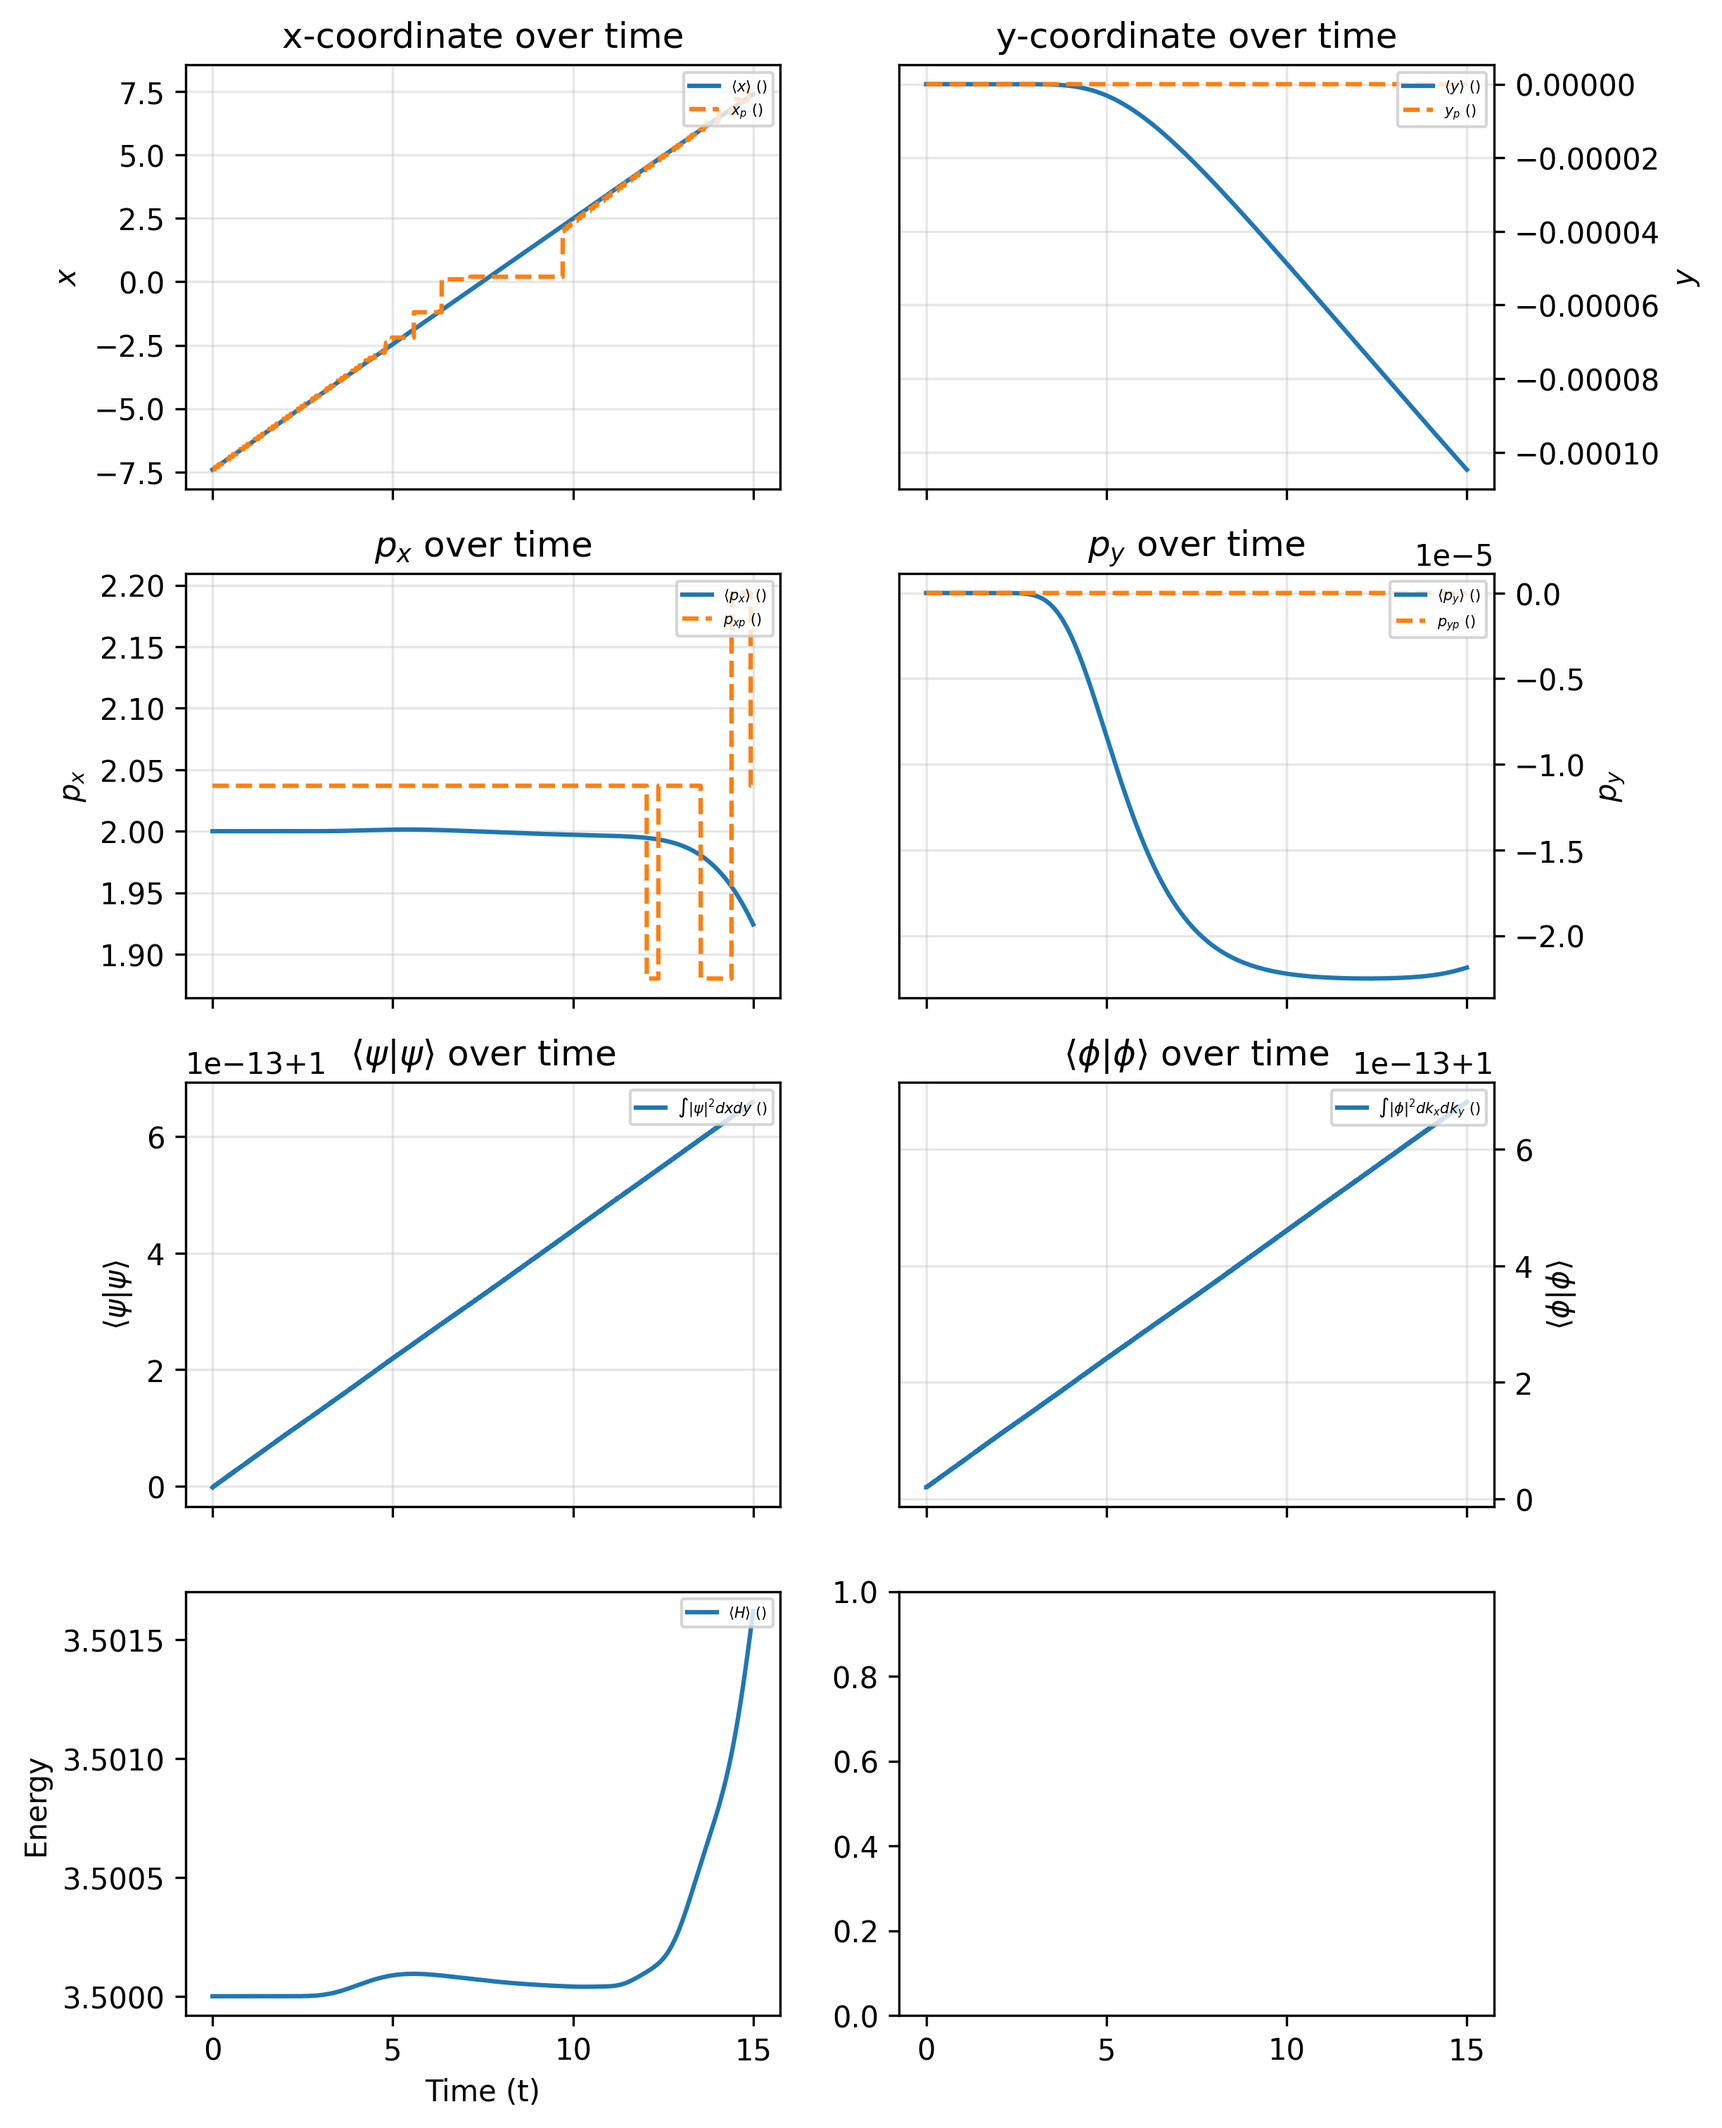
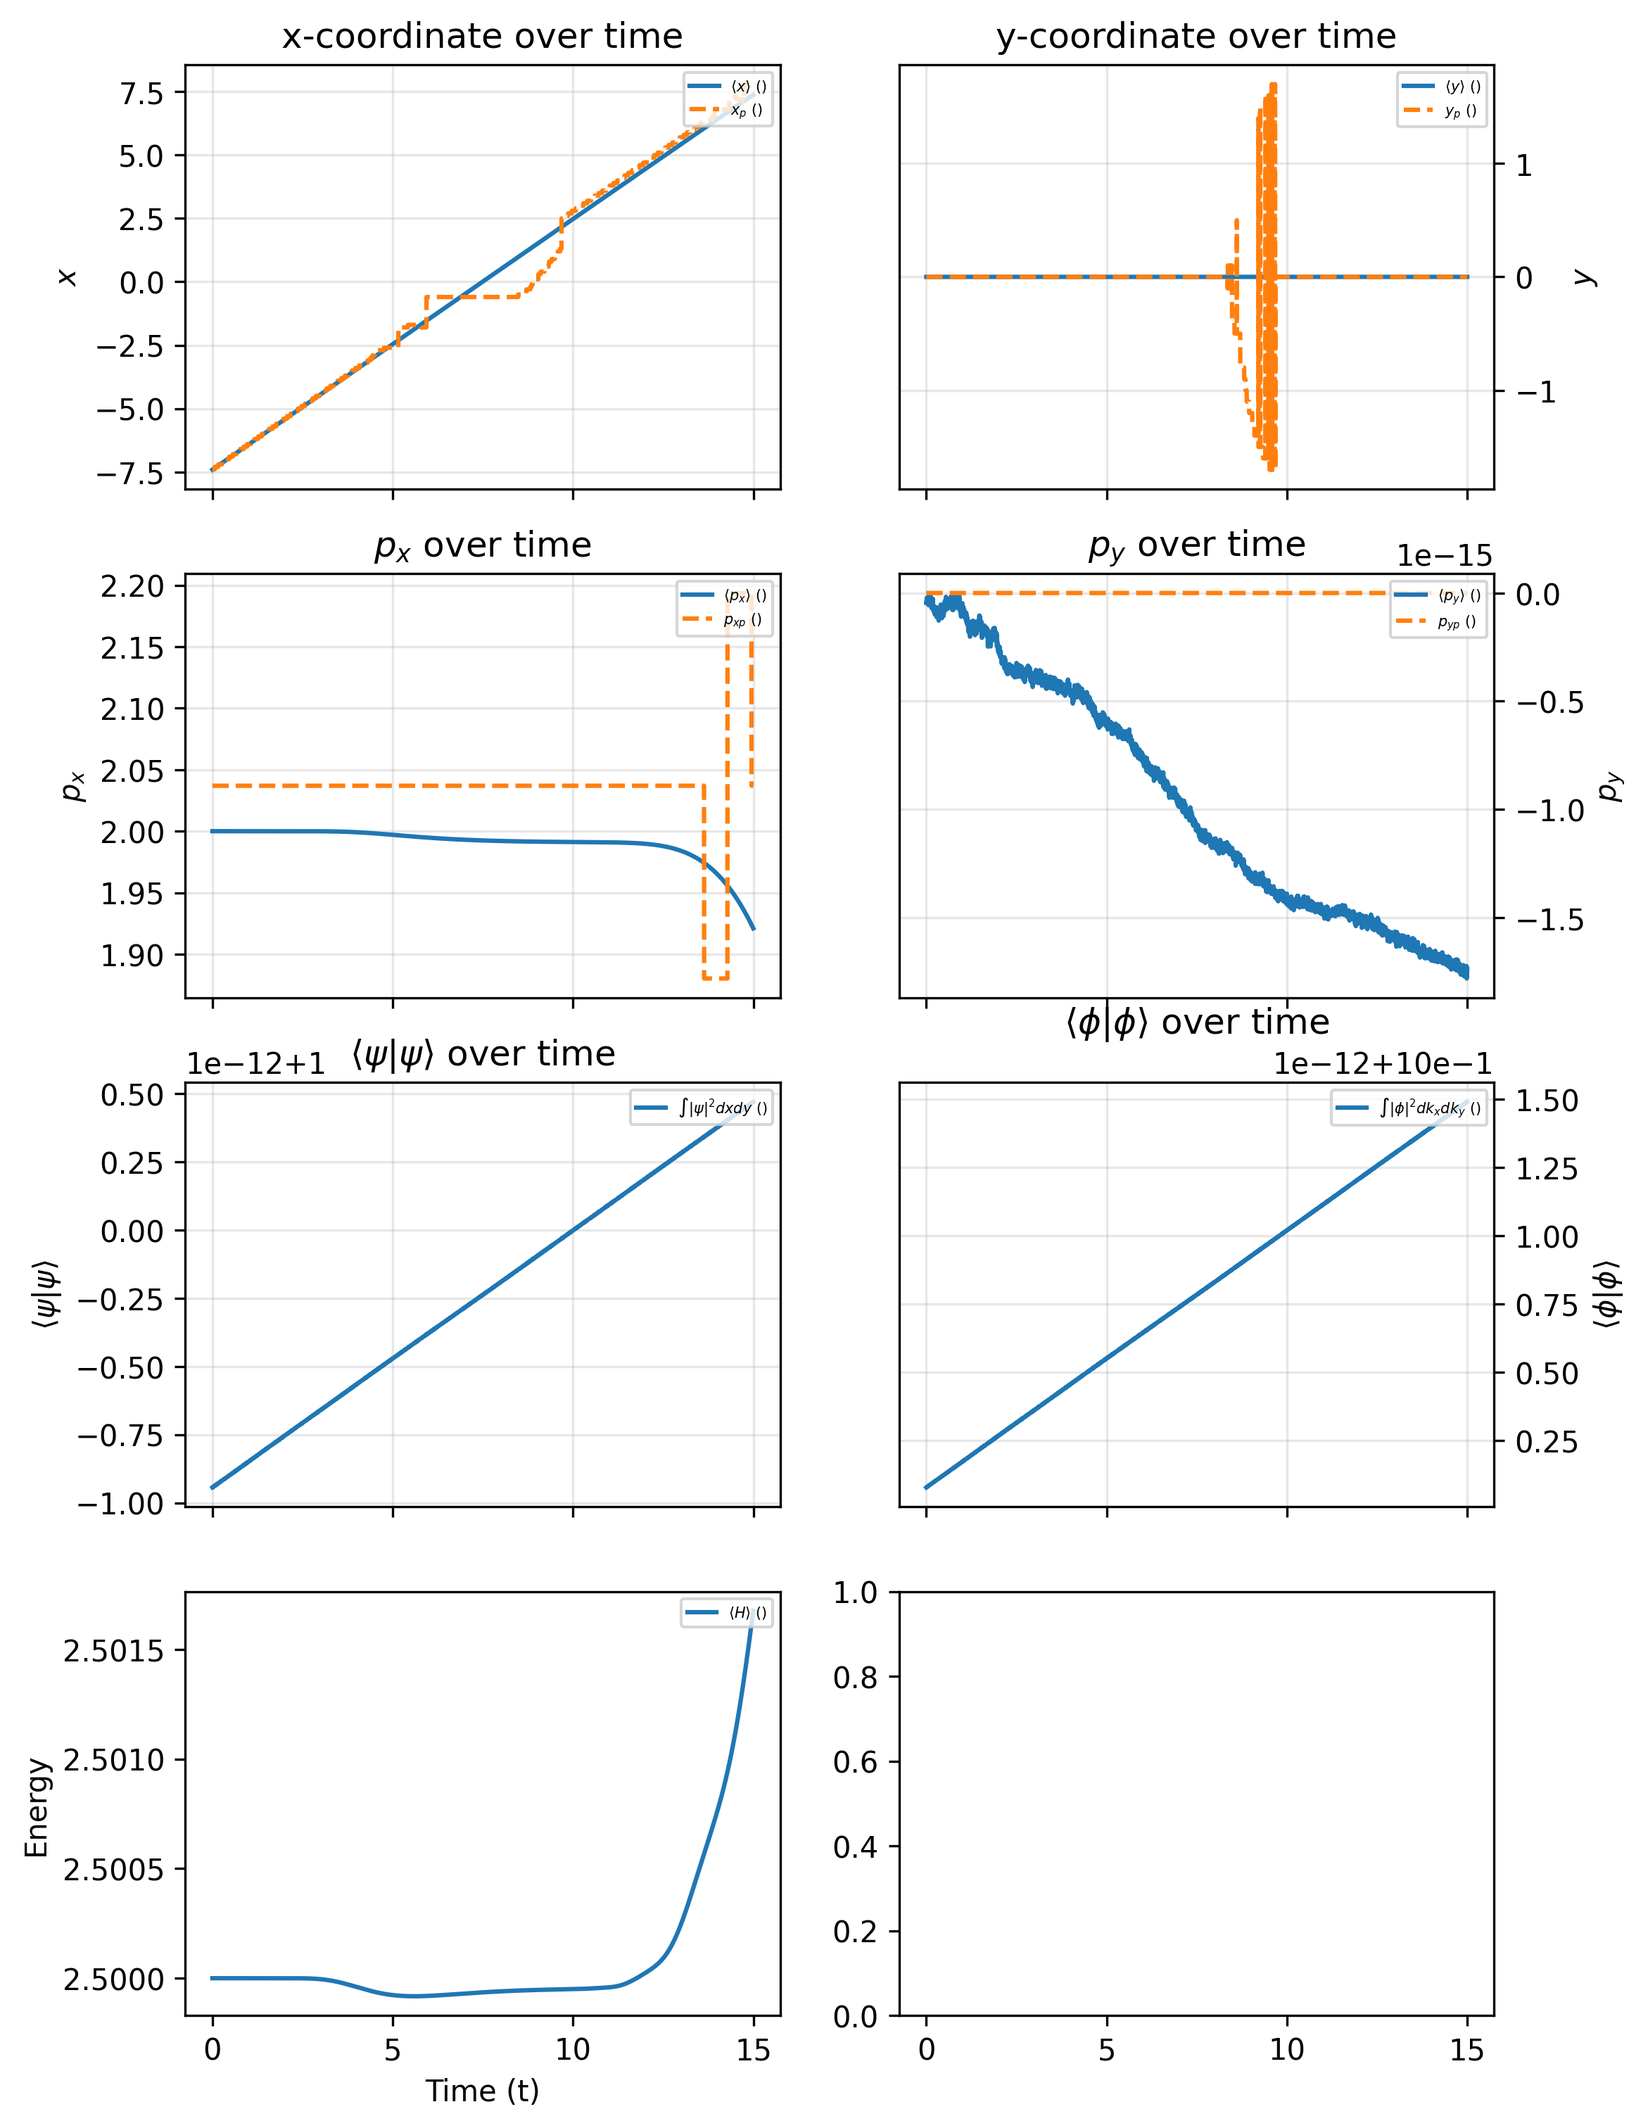
almost done

diff --git a/Assignment4/CQM.py b/Assignment4/CQM.py
@@ -661,7 +661,8 @@ def step_potential_2d(X, Y, step_pos_x=0.0, v_left=0.0, v_right=1.0):
 
 def disk_potential_2d(X, Y, R=1.5, center_x=0.0, center_y=0.0, v_out=0.0, v_in=1.0):
     """Returns a 2D disk potential with radius R """
-    return np.where(((X-center_x)**2 + (Y-center_y)**2) < R**2 + epsilon, v_out, v_in)
+    epsilon = 1e-10
+    return np.where(((X-center_x)**2 + (Y-center_y)**2) < R**2 + epsilon, v_in, v_out)
 
 def harmonic_potential_2d(X, Y, omega_x=1.0, omega_y=1.0):
     """Returns a 2D harmonic oscillator potential."""
@@ -1240,5 +1241,5 @@ def MiniProject3():
 
 if __name__ == "__main__": 
     print("-"*15 + "   starting simulations   " + "-"*15)
-    MiniProject1()
+    MiniProject3()
     print("-"*15 + " all simulations finished " + "-"*15)

diff --git a/Assignment4/Report.md b/Assignment4/Report.md
@@ -549,11 +549,178 @@ Using these formulae, the same table would be populated as :
 
 # Problem 3: 2D Quantum Scattering
 
+## Part (a) : Numerical method
+
+We can extend the split operator method to 2D by assuming $\Delta y = \Delta x$ and defining 
+
+$$
+a(x,y) = \frac{4m\Delta  x^2}{t\hbar}i - \frac{2m\Delta  x^2}{\hbar^2}V(x,y) -4 \\
+b(x,y) = \frac{4m\Delta x^2}{t\hbar}i + \frac{2m\Delta x^2}{\hbar^2}V(x,y) + 4
+$$
+
+and writing
+
+$$
+\begin{bmatrix}
+0 & 1 & 0 \\
+1 & a(x) & 1 \\
+0 & 1 & 0
+\end{bmatrix} 
+\circ
+\begin{bmatrix}
+\psi_t(x+\Delta x,y+\Delta y) & \psi_t(x,y+\Delta y) & \psi_t(x-\Delta x,y+\Delta y) \\
+\psi_t(x+\Delta x,y) & \psi_t(x,y) & \psi_t(x-\Delta x,y) \\
+\psi_t(x+\Delta x,y-\Delta y) & \psi_t(x,y-\Delta y) & \psi_t(x-\Delta x,y-\Delta y) \\
+\end{bmatrix} \\
+= \\
+\begin{bmatrix}
+0 & -1 & 0 \\
+-1 & b(x) & -1 \\
+0 & -1 & 0
+\end{bmatrix} 
+\circ
+\begin{bmatrix}
+\psi_0(x+\Delta x,y+\Delta y) & \psi_0(x,y+\Delta y) & \psi_0(x-\Delta x,y+\Delta y) \\
+\psi_0(x+\Delta x,y) & \psi_0(x,y) & \psi_0(x-\Delta x,y) \\
+\psi_0(x+\Delta x,y-\Delta y) & \psi_0(x,y-\Delta y) & \psi_0(x-\Delta x,y-\Delta y) \\
+\end{bmatrix} 
+$$
+
+Solving this is going to be a nightmare.
+
+So instead, we approximate even more, giving us what is known as the _Alternat Direction Implicit_ method. 
+
+Here, we split the hamiltonian operator as $\hat H = \hat H_x + \hat H_y$ where 
+
+$$
+\hat H_x = -\frac{\hbar^2 \hat p_x^2}{2m} + V_x(x,y) \\
+\hat H_y = -\frac{\hbar^2 \hat p_y^2}{2m} + V_y(x,y)
+$$
+
+It it's possible to separate the potential as $V(x,y) = V_x(x) + V_y(y)$, we can simply split it. Otherwise, we can do $V_x = V_y = V/2$
+
+Now, for the method, we discretise the wave-function over a grid, giving us the matrix $\Psi[y,x]$. Just like before, we create the tri-diagonal matrices (using $t/2$ rather than $t$), but now for each dimension separately. Then we solve :
+
+$$
+A_{x}(y)\Psi_{t/2}[y] = B_x(y)\Psi_0[y]
+$$
+
+for all $y$ and then
+
+$$
+A_y(x)\Psi_{t}^T[x] = B_y(x)\Psi_{t/2}^T[x]
+$$
+
+for all $x$.
+
+This effectively takes $O(MN)$ operations each iteration, assuming the grid is $M\times N$ points big.
+
+Note that this analysis was done for the physical 2D TDSE, which is :
+
+$$
+-\frac{\hbar^2}{2m}\nabla^2 \psi + V \psi = i\hbar \frac{\partial}{\partial t}\psi 
+$$
+
+The $A_x(y)$ and $B_y(x)$ need to be translated to the adimensional versions (as done in `CQM.py`) for implementation. 
+
+As suggested in the assignment, the grid will have $x,y \in [-20,20]$ and $\Delta y = \Delta x = 0.1$. We will have $\Delta t = 0.003$ for all the animations created (and the respective plots).
+
 ## Part (a): Boundary Conditions and Normalization
+
+Similar to the 1D case, we use perfectly reflecting boundaries that have $\psi=0$ at all times. 
+For normalisation, we will ensure that
+
+$$
+N_{\vec x}(t) = \braket{\psi_t | \psi_t} \approx \Delta x^2\sum_x\sum_y \psi_t[x,y] = 1 + \epsilon_t
+$$
+
+where $\epsilon_t$, the error, is a small quantity, arising from rounding and discretization errors. 
+Just like before, we will plot $N_{\vec x}(t)$ as a function of time/step. 
+We will also compute the 2D FFT of $\psi_t$, giving the momentum wave-function $\phi_t$ and its norm $N_{\vec p}(t) = \braket{\phi_t| \phi_t}$.
+
+As suggested in the assignment, the wave-packet will be centered at $(-8,0)$ and have an initial momentum $k_x$ to the right (with $k_y=0$). The wave-packet will be gaussian and have the spread of $\sigma=1$ in either direction, which is much smaller than the grid's dimensions and will prevent the boundary affecting the simulation.  
+
 ## Part (b): Free Propagation
-## Part (c): Repulsive Barrier
-## Part (d): Parameter Variations
+
+![Free Particle](media/P3/scatterer_2d__R_3__k_x_2__sigma_1__V_0_0.gif)
+
+![Checking normalisation preservation](media/P3/scatterer_2d_summary__R_3__k_x_2__sigma_1__V_0_0.png)
+
+Once again, as you can see, towards the end of the simulation, the momentum in $x$ directon starts to change (invert, more specifically). This is due to the reflection of the wave-packet by the right boundary of the grid.
+
+Also notice how the norm $\braket{\psi|\psi}$ stays close to 1, with variation being on the order of $10^{-12}$
+
+## Part (c) and (f): Repulsive Barrier and classical shadow region
+
+![Repulsive Barrier](media/P3/scatterer_2d__R_3__k_x_2__sigma_1__V_0_1.gif)
+
+![Changes in momentum and position](media/P3/scatterer_2d_summary__R_3__k_x_2__sigma_1__V_0_1.png)
+
+You can see in the animation that after the wave-packet encounters the repulsive disk potential, there is a wavefront (a little after the first thin reflection) travelling to the left. This is the reflected wave. 
+Notice that there is some of the incident probability mass that actually goes inside and beyond the disk, i.e. in the region where $x>R=3$ and $y\in [-R/2,R/2] = [-1.5, 1.5]$. This is the classical "shadow region". No classical particle with momentum purely along x-axis would ever be able to reach the shadow region. And of course, classically, no particle will be able to enter the disk. But here we see that a _quantum_ particle/wave (or something close to a particle) is able to enter the disk and go beyond it into the shadow region. In wave-mechanics terms, this is the transmitted wave, and is a very standard phenomenon to see. 
+
+You can also see (in the animation) the most probable and mean positions overlayed on the heat-map for $|\psi|^2$ as well as the most probable and mean momentums overlayed on the heat-map for the squared magnitude of the momentum wavefunction, i.e. $|\phi|^2(\vec k)$. 
+
+Notice how the mean momentum barely shifts and how the momentum wavefunction, at one point, has a hole in the place where the mean momentum is, indicating scattering of the particle into many different directions. 
+
 ## Part (e): Angular Distribution
+
+The assignment asks to compute $P(\theta) = \int |\psi(r,\theta)|^2 r dr$ "far from the scatterer" and to "interpret it as a numerical cross section". This part was confusing for these reasons :
+
+1. The integral isn't an area integral, but rather a line integral.
+2. If the interval over which we are integrating is too small, we will get significant values only when the particle is passing through the region, which will not be sufficient to understand the physics of scattering. 
+
+So, I have made a few modifications :
+
+1. I consider wide sectors (centered at given $\theta_m$) with angular width of $\Delta \theta = 10^o = \frac{\pi}{18}$ which are then further cropped so that $r\in [r_m-\Delta r, r_m + \Delta r]$ where $\Delta r$ is a large value. I then compute the area integral of $|\psi|^2$ over these regions giving $P(\theta_m|r_m, \Delta r, \Delta \theta)$ 
+2. To make sure a good amount of the probability mass is captured, I have kept $r_m=13$ and $\Delta r = 7$ (in atomic units). 
+
+
+
+For this section, refer back to the animation in part (c). 
+These $r_m-\Delta r$ and $r_m + \Delta r$ values are highlighted as white concentric circles in the first subplot of the animation.
+The resultant values of $P(\theta_m)$ are plotted on the radial plot in bottom right subplot of the animation, with a square root taken to somewhat compress the dynamic range and help in visualisation. 
+
+## Part (d): Parameter Variations
+
+### $R=1$
+
+![$R=1, \sigma=1, k_x=2$ animation](media/P3/scatterer_2d__R_1__k_x_2__sigma_1__V_0_1.gif)
+
+![$R=1, \sigma=1, k_x=2$ plots](media/P3/scatterer_2d_summary__R_1__k_x_2__sigma_1__V_0_1.png)
+
+With a smaller $R$, less of the probability mass is directly reflected back, and surprisingly, less probability mass is directly transmitted. Rather, it seems that wave is converted into 2 waves going travelling diagonally to the right, which then interfere when they spread. The shape of the $P(\theta)$ plot after the encounter with the disk is also different, with the central peak we previously saw missing. 
+
+### $R=0.3$
+
+![$R=0.3, \sigma=1, k_x=2$ animation](media/P3/scatterer_2d__R_0.3__k_x_2__sigma_1__V_0_1.gif)
+
+![$R=0.3, \sigma=1, k_x=2$ plots](media/P3/scatterer_2d_summary__R_0.3__k_x_2__sigma_1__V_0_1.png)
+
+With an even smaller $R$, the shape of $P(\theta)$ after the encounter with the disk entirely changes to a more circular shape. Moreover, there is little to no change in the momentum wave-function before and after the encounter. Most likely the two diagonally travelling wavefronts we saw in the $R=1$ case are spreading more rapidly and interfering earlier in the shadow region. Thus, the probability mass in the shadow region isn't due to the transmitted wave, but rather interference of the deflected wavefronts.
+
+### $k_x=5$
+
+![$R=3, \sigma=1, k_x=5$ animation](media/P3/scatterer_2d__R_3__k_x_5__sigma_1__V_0_1.gif)
+
+![$R=3, \sigma=1, k_x=5$ plots](media/P3/scatterer_2d_summary__R_3__k_x_5__sigma_1__V_0_1.png)
+
+The interesting thing to notice is that when $k_x=5$, the particle entirely bypasses the repulsive disk. It is effectively going _over_ the disk, because it has a _much_ higher energy (around 13) than the potential of the disk (just 1). 
+
 ## Part (f): Attractive Potential
+
+![Attractive potential](media/P3/scatterer_2d__R_3__k_x_2__sigma_1__V_0_-1.gif)
+
+![Position and Momentum for attractive disk potential](media/P3/scatterer_2d_summary__R_3__k_x_2__sigma_1__V_0_-1.png)
+
+Unlike the repulsive potential where most of the probability mass is reflected back, for an attractive potential, most is transmitted through, although there is some that is reflected back. 
+Similar to the decrease in momentum we saw when the particle entered the region with higher potential, here we see an _increase_ in the average momentum. 
+Just like last time, at the end of the simulation, we start seeing the effect of the reflective boundary.
+
 ## Part (g): Convergence Tests
-## Part (h): Comparison with Classical Expectation
+
+![$\braket{\vec p}, \braket{\vec x}$ curves for different $\Delta x, \Delta t$](media/P3/scatterer_2d_convergence.png)
+
+From the figure, we can gather than even after increaseing $\Delta t$ to 0.1 and increasing $\Delta x$ to 0.2, the numerical solution is accurate. 
+
+Only when we increase $\Delta$ to 0.5 do we start getting inaccuracies. Even then, the general shape of the solution is the same. 
